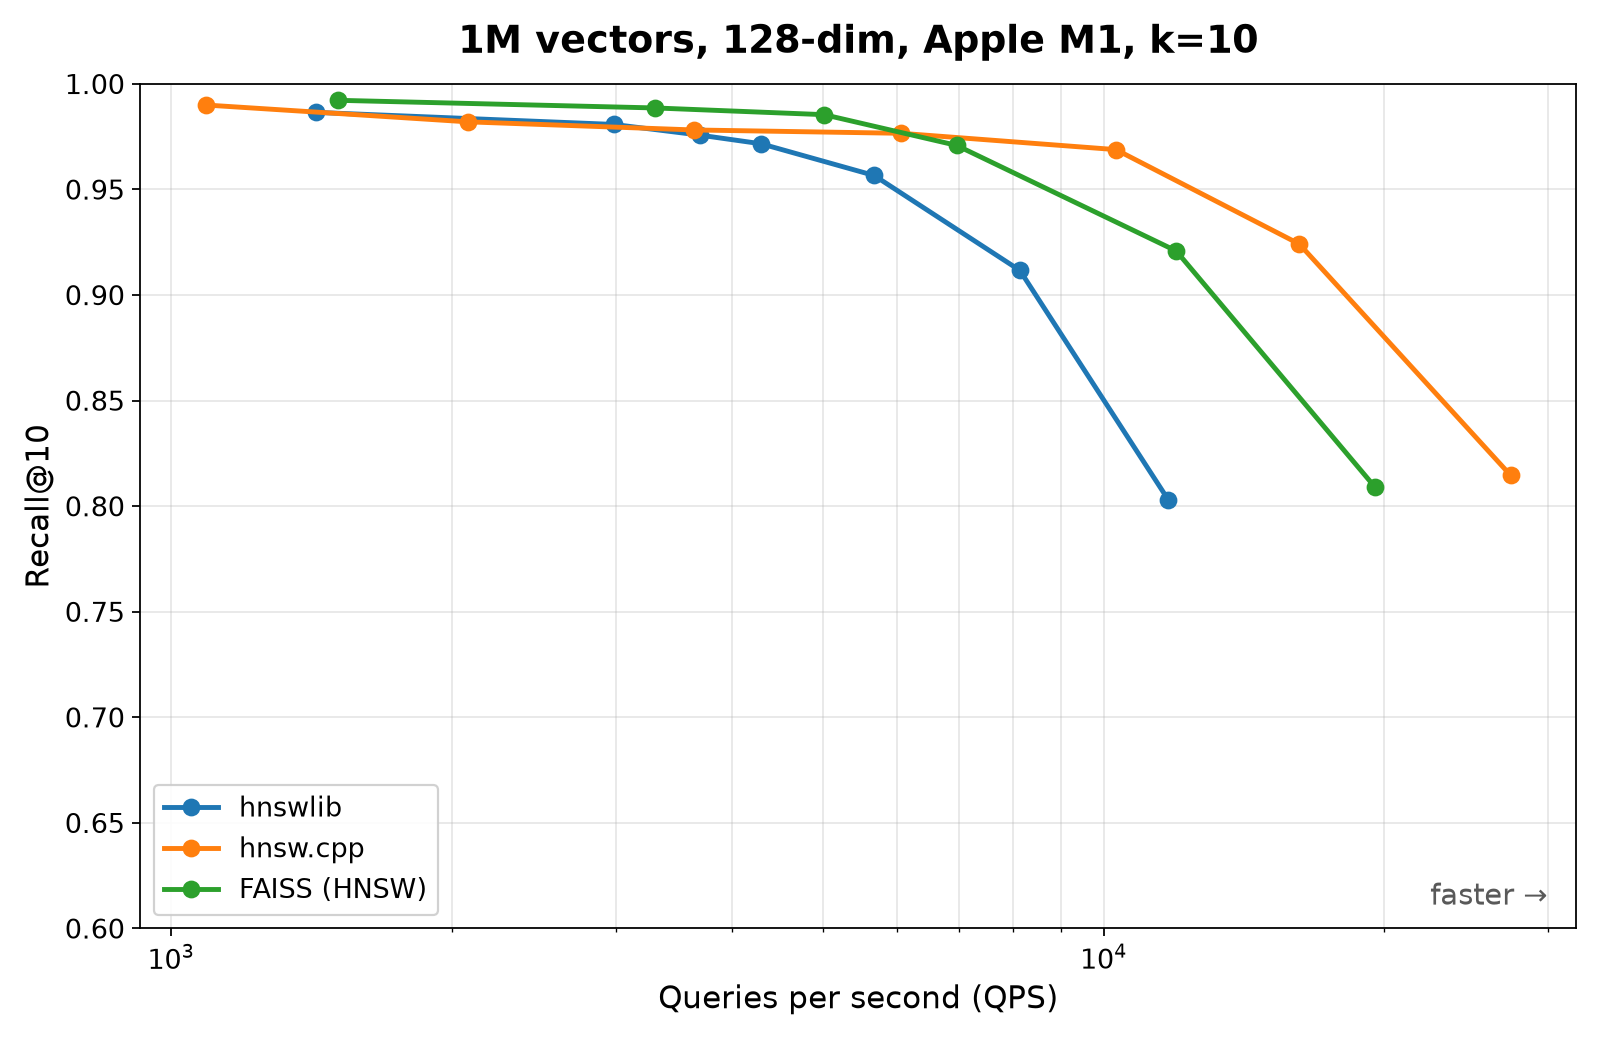
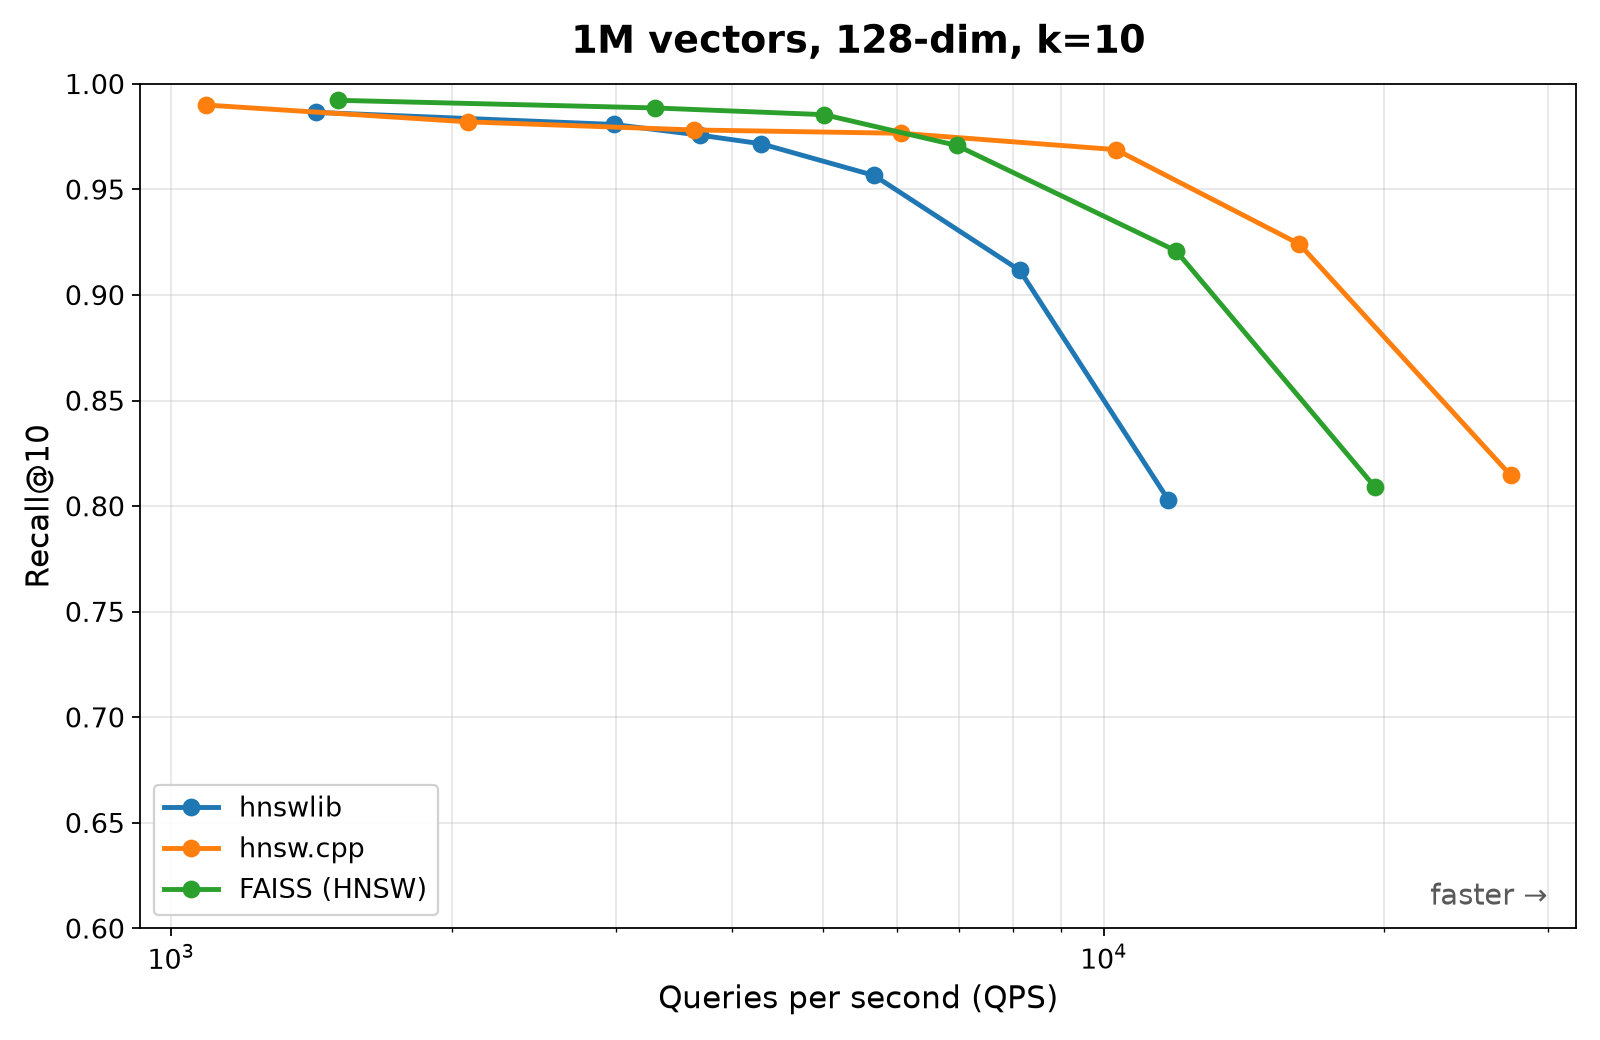
Chart: remove hardware/Apple M1 mention from graph title

Changed region(s): [[0.2812, 0.0, 0.7812, 0.0615]]

diff --git a/scripts/bench/bench/report.py b/scripts/bench/bench/report.py
@@ -3,9 +3,7 @@ from __future__ import annotations
 import csv
 import json
 import math
-import platform
 import re
-import subprocess
 from dataclasses import asdict
 from pathlib import Path
 
@@ -123,25 +121,6 @@ def _format_count(value: int) -> str:
     return str(value)
 
 
-def _detect_hardware() -> str:
-    if platform.system() == "Darwin":
-        try:
-            completed = subprocess.run(
-                ["sysctl", "-n", "machdep.cpu.brand_string"],
-                capture_output=True,
-                check=False,
-                text=True,
-                timeout=2,
-            )
-        except (OSError, subprocess.SubprocessError):
-            pass
-        else:
-            name = completed.stdout.strip()
-            if name:
-                return name
-    return platform.processor() or platform.machine() or "unknown"
-
-
 def _recall_bounds(result: RunResult) -> tuple[float, float]:
     recalls = [
         point.recall
@@ -177,7 +156,6 @@ def _write_graph(result: RunResult, latest_path: Path) -> None:
         )
 
     k = result.config.metrics.k
-    hardware = result.config.output.hardware or _detect_hardware()
     axis.set_xscale("log")
     axis.set_xlabel("Queries per second (QPS)", fontsize=14)
     axis.set_ylabel(f"Recall@{k}", fontsize=14)
@@ -196,7 +174,7 @@ def _write_graph(result: RunResult, latest_path: Path) -> None:
         color="0.35",
     )
     axis.set_title(
-        f"{_format_count(result.n)} vectors, {result.dim}-dim, {hardware}, k={k}",
+        f"{_format_count(result.n)} vectors, {result.dim}-dim, k={k}",
         fontsize=17,
         fontweight="bold",
         pad=14,

diff --git a/scripts/bench/bench/settings.py b/scripts/bench/bench/settings.py
@@ -27,7 +27,6 @@ class OutputConfig:
     dir: str
     format: str
     label: str | None = None
-    hardware: str | None = None
 
 
 @dataclass
